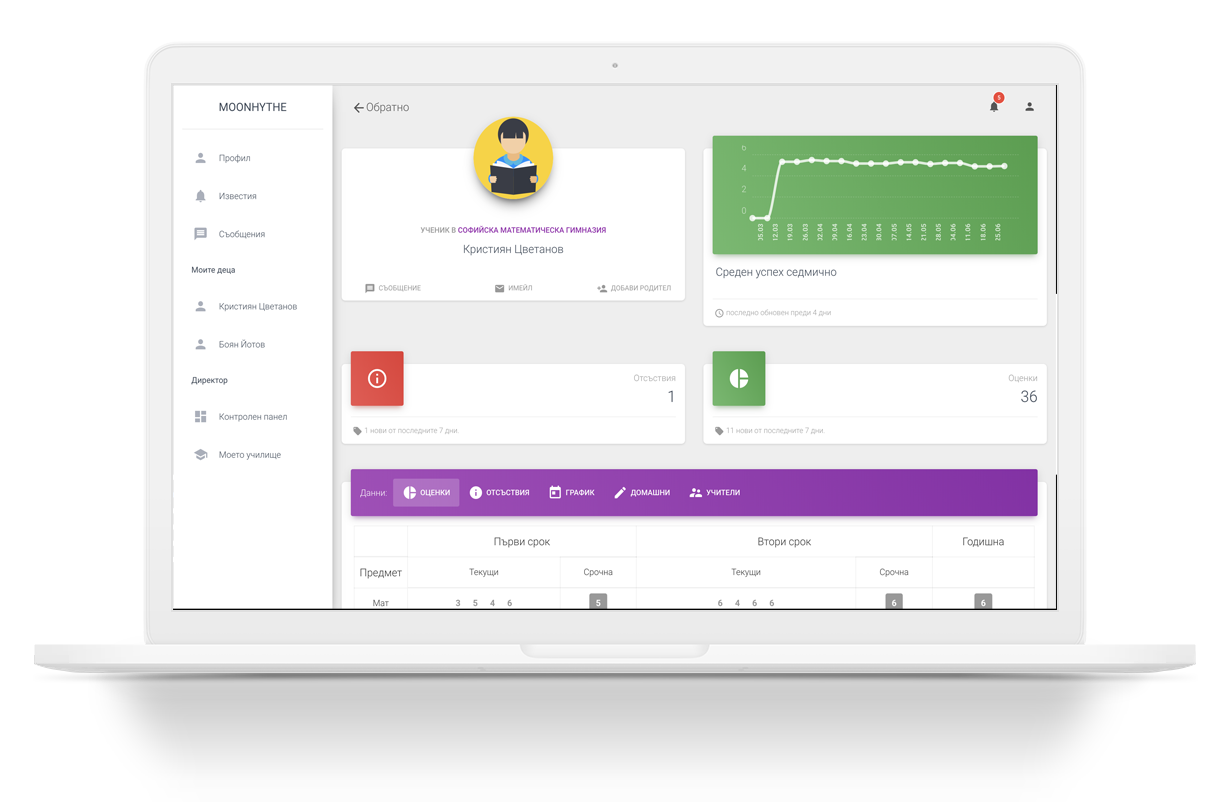
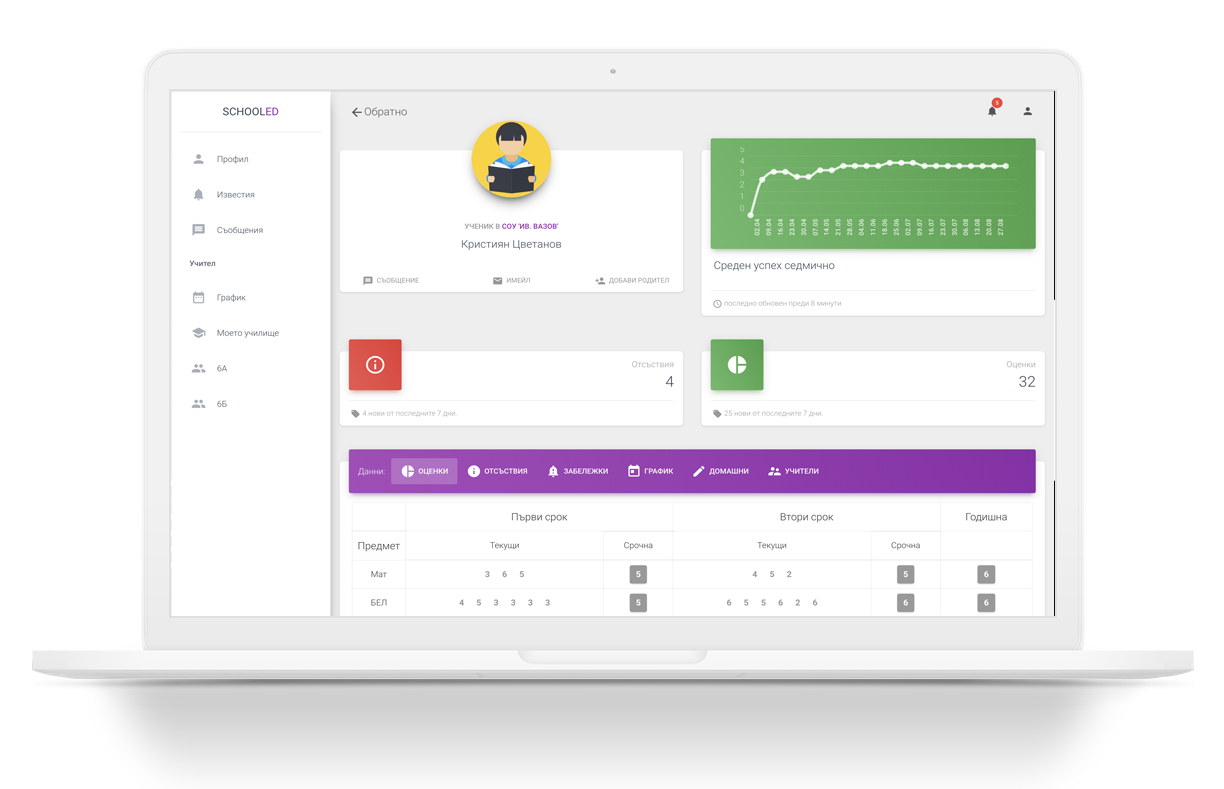
Fixes

diff --git a/app/assets/stylesheets/pages/home.scss b/app/assets/stylesheets/pages/home.scss
@@ -26,7 +26,7 @@
       -webkit-transition: all 1s; /* Safari */
       transition: all 1s;
 
-      i {
+      i, svg {
         color: rgb(220,220,220);
         font-size: 4em;
       }
@@ -46,7 +46,7 @@
       padding: 15px 10px;
       text-align: center;
 
-      i {
+      i, svg {
         font-size: 2em;
         margin-top: 40px;
         color: rgb(220,220,220);
@@ -73,7 +73,7 @@
       -webkit-transition: all 0.5s; /* Safari */
       transition: all 0.5s;
 
-      i {
+      i, svg {
         color: #3C4858;
         font-size: 4em;
       }

diff --git a/app/assets/stylesheets/material/core/_sidebar-and-main-panel.scss b/app/assets/stylesheets/material/core/_sidebar-and-main-panel.scss
@@ -93,19 +93,10 @@
         }
     }
 
-    .logo-tim{
-        border-radius: 50%;
-        border: 1px solid #333;
-        display: block;
-        height: 61px;
-        width: 61px;
-        float: left;
-        overflow: hidden;
-
-        img{
-            width: 60px;
-            height: 60px;
-        }
+    .logo a{
+      .d-inline {
+        color: #9d1bb7;
+      }
     }
 
     .nav{

diff --git a/app/assets/stylesheets/application.scss b/app/assets/stylesheets/application.scss
@@ -13,6 +13,7 @@
 @import "home";
 @import "plugins/rangeslider/rangeslider";
 @import "plugins/rangeslider/flat-ui";
+@import "font_awesome5";
 
 
 .irs-line {
@@ -22,6 +23,11 @@
 .no-margin{
   margin-top: 0px !important;
 }
+
+.margin-top {
+  margin-top: 50px;
+}
+
 .hidden {
   display: none;
 }

diff --git a/app/assets/javascripts/application.js b/app/assets/javascripts/application.js
@@ -11,6 +11,7 @@
 //= require landing/header
 //= require plugins/particles.min
 //= require plugins/rangeslider
+//= require font_awesome5
 //= require turbolinks
 //= require phoenix
 //= require_tree .

diff --git a/db/seeds.rb b/db/seeds.rb
@@ -1,6 +1,6 @@
 puts "Creating schools"
 
-smg = School.create(name: "Софийска Математическа Гимназия", email: 'smg@gmail.com', contact_number: "0885955926", address: "Sofia, bul. Levski 26", number: 128)
+smg = School.create(name: "СОУ 'Ив. Вазов'", email: '32sou@schooled.app', contact_number: "0885955926", address: "Sofia, bul. Levski 26", number: 32)
 feg = School.create(name: "Френска Езикова Гимназия", email: 'fed@gmail.com', contact_number: "0885955925", address: "Varna, bul. Lomsko shose 12", number: 9)
 
 puts "Creating subjects"
@@ -14,8 +14,8 @@ french2    = Subject.new(name: "Френски", abbreviation: 'Френски',
 
 puts "Creating headmasters"
 
-h1 = User.create(first_name: 'Ивайло', last_name: 'Ушагелов', email: "headmaster@smg.bg", password: "password", password_confirmation: "password")
-h2 = User.create(first_name: 'Иван', last_name: 'Петров', email: "headmaster@feg.bg", password: "password", password_confirmation: "password")
+h1 = User.create(first_name: 'Иван', last_name: 'Георгиев', email: "headmaster1@schooled.app", password: "password", password_confirmation: "password")
+h2 = User.create(first_name: 'Иван', last_name: 'Петров', email: "headmaster2@schooled.app", password: "password", password_confirmation: "password")
 
 puts "Creating teachers"
 
@@ -23,9 +23,9 @@ t1 = User.create(first_name: "Мария", last_name: "Банова", email: "te
 t2 = User.create(first_name: "Кристина", last_name: "Ценова", email: "teacher2@smg.bg", password: "password", password_confirmation: "password")
 t3 = User.create(first_name: "Ваня", last_name: "Костадинова", email: "teacher3@smg.bg", password: "password", password_confirmation: "password")
 
-t4 = User.create(first_name: "Благой", last_name: "Терзиев", email: "teacher4@feg.bg", password: "password", password_confirmation: "password")
-t5 = User.create(first_name: "Благой", last_name: "Георгиев", email: "teacher5@feg.bg", password: "password", password_confirmation: "password")
-t6 = User.create(first_name: "Сам", last_name: "Маринов", email: "teacher6@feg.bg", password: "password", password_confirmation: "password")
+t4 = User.create(first_name: "Благой", last_name: "Терзиев", email: "teacher4@schooled.app", password: "password", password_confirmation: "password")
+t5 = User.create(first_name: "Благой", last_name: "Георгиев", email: "teacher5@schooled.app", password: "password", password_confirmation: "password")
+t6 = User.create(first_name: "Сам", last_name: "Маринов", email: "teacher6@schooled.app", password: "password", password_confirmation: "password")
 
 puts "Creating groups"
 gr1 = Group.create(name: 'а', school: smg, teacher: t1, grade: 6)
@@ -108,8 +108,8 @@ Parentship.create(parent: p3, student: s6)
 
 puts "Creating school years"
 
-y1 = SchoolYear.create(year: "2017/2018", school: smg, active: true, start: DateTime.parse("15/09/2017 8:00"), midterm: DateTime.parse("28/02/2018 8:00"),end: DateTime.parse("30/06/2018 8:00"))
-y2 = SchoolYear.create(year: "2017/2018", school: feg, active: true, start: DateTime.parse("15/09/2017 8:00"), midterm: DateTime.parse("28/02/2018 8:00"),end: DateTime.parse("30/06/2018 8:00"))
+y1 = SchoolYear.create(year: "2017/2018", school: smg, active: true, start: DateTime.parse("15/09/2017 8:00"), midterm: DateTime.parse("28/03/2018 8:00"),end: DateTime.parse("30/08/2018 8:00"))
+y2 = SchoolYear.create(year: "2017/2018", school: feg, active: true, start: DateTime.parse("15/09/2017 8:00"), midterm: DateTime.parse("28/03/2018 8:00"),end: DateTime.parse("30/08/2018 8:00"))
 
 puts "Creating courses"
 
